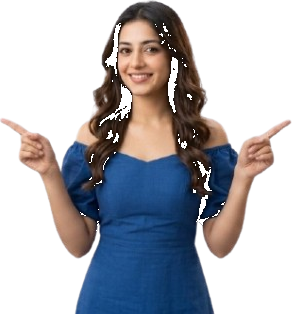
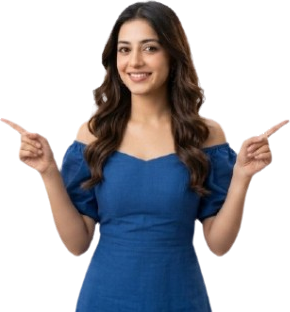
did all chang

diff --git a/frontend/src/components/MakePaymentPanel.js b/frontend/src/components/MakePaymentPanel.js
@@ -83,7 +83,7 @@ export default function MakePaymentPanel({
 
             <div className="relative h-full min-h-[14rem] w-full">
               <img
-                src={`${GUIDE_IMAGE}?v=2`}
+                src={`${GUIDE_IMAGE}?v=5`}
                 alt="Choose UPI QR or Account Transfer"
                 className="absolute inset-0 h-full w-full object-contain object-center"
               />
